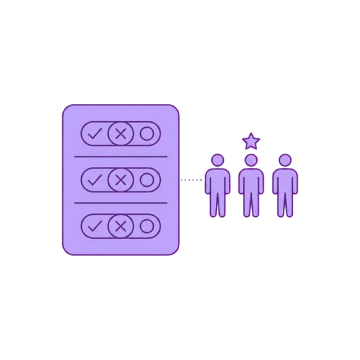
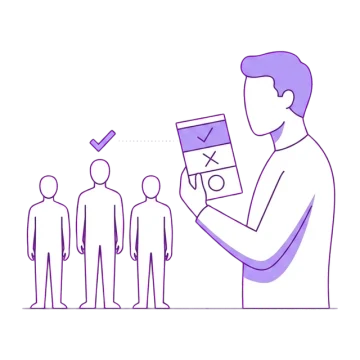
feat: make the Find your DRep intro inviting (#499)
* feat: give the Find your DRep intro a hero, pool figures and three steps

* feat: redraw the DRep matching illustration in the help series style

---------

Changed region(s): [[0.0611, 0.1222, 0.9167, 0.8861], [0.9167, 0.4583, 0.9472, 0.7028], [0.8861, 0.3972, 0.9167, 0.4583]]

diff --git a/src/components/MatchQuiz.tsx b/src/components/MatchQuiz.tsx
@@ -18,6 +18,7 @@ import {
   rankDreps,
   setFingerprint,
   type MatchDrep,
+  type MatchPoolStats,
   type RankedDrep,
   type UserAnswer,
 } from '@/lib/match/logic.js';
@@ -36,6 +37,7 @@ interface Props {
   network: CardanoNetwork;
   questions: MatchQuestion[];
   dreps: MatchDrep[];
+  poolStats: MatchPoolStats;
 }
 
 type Phase = 'intro' | 'quiz' | 'results';
@@ -71,7 +73,7 @@ function firstSkippedIndex(answers: readonly UserAnswer[]): number {
   return idx === -1 ? 0 : idx;
 }
 
-export default function MatchQuiz({ network, questions, dreps }: Props) {
+export default function MatchQuiz({ network, questions, dreps, poolStats }: Props) {
   const [phase, setPhase] = useState<Phase>('intro');
   const [step, setStep] = useState(0);
   const [answers, setAnswers] = useState<UserAnswer[]>(() => questions.map(() => 's'));
@@ -174,9 +176,14 @@ export default function MatchQuiz({ network, questions, dreps }: Props) {
   }
 
   return (
-    <div className="match-quiz">
+    <div className={phase === 'intro' ? 'match-quiz match-quiz--intro' : 'match-quiz'}>
       {phase === 'intro' && (
-        <IntroScreen staleLink={staleLink} questionCount={questions.length} onStart={startQuiz} />
+        <IntroScreen
+          staleLink={staleLink}
+          questionCount={questions.length}
+          poolStats={poolStats}
+          onStart={startQuiz}
+        />
       )}
       {phase === 'quiz' && (
         <QuizScreen
@@ -215,14 +222,35 @@ export default function MatchQuiz({ network, questions, dreps }: Props) {
 function IntroScreen({
   staleLink,
   questionCount,
+  poolStats,
   onStart,
 }: {
   staleLink: boolean;
   questionCount: number;
+  poolStats: MatchPoolStats;
   onStart: () => void;
 }) {
+  const facts = [
+    { label: 'Questions', value: questionCount, sub: 'completed governance actions' },
+    { label: 'DReps compared', value: poolStats.drepCount, sub: 'voted on enough of them' },
+    { label: 'On-chain votes', value: poolStats.voteCount, sub: 'cast by those DReps on these actions' },
+  ];
+  const steps = [
+    {
+      title: 'Answer',
+      text: 'Say Yes, No or Abstain on each action, or skip the ones you are unsure about.',
+    },
+    {
+      title: 'Compare',
+      text: 'See the DReps whose past votes line up with yours, with their written rationale where one exists.',
+    },
+    {
+      title: 'Delegate',
+      text: 'Read a matching DRep\'s profile, or delegate to them right from the results with your wallet.',
+    },
+  ];
   return (
-    <section className="match-panel match-intro">
+    <section className="match-intro">
       {staleLink && (
         <div className="callout callout--warning match-notice" role="status">
           <div className="callout__body">
@@ -231,21 +259,55 @@ function IntroScreen({
           </div>
         </div>
       )}
-      <p className="match-intro__lede">
-        You will see {questionCount} real governance actions that Cardano DReps have already
-        voted on. For each one, say how you would have voted: Yes, No or Abstain. At the end,
-        see the DReps whose past votes line up most closely with your answers.
-      </p>
-      <p className="match-intro__privacy">
-        <strong>Your answers never leave your device.</strong> Matching runs entirely in your
-        browser.
-      </p>
-      <p className="match-intro__how">
-        <a href="/help/drep-matching/">How matching works</a>
-      </p>
-      <button type="button" className="btn btn-primary match-intro__start" onClick={onStart}>
-        Start
-      </button>
+      <div className="match-panel match-intro__hero">
+        <div className="match-intro__text">
+          <p className="match-intro__lede">
+            Answer {questionCount} real governance actions that Cardano DReps have already voted
+            on, and see which DReps voted the way you would have.
+          </p>
+          <p className="match-intro__privacy">
+            <strong>Your answers never leave your device.</strong> Matching runs entirely in your
+            browser.
+          </p>
+          <p className="match-intro__how">
+            <a href="/help/drep-matching/">How matching works</a>
+          </p>
+          <button type="button" className="btn btn-primary match-intro__start" onClick={onStart}>
+            Start
+          </button>
+        </div>
+        <img
+          className="match-intro__illu"
+          src="/help/drep-matching.webp"
+          width="360"
+          height="360"
+          alt=""
+        />
+      </div>
+      <dl className="match-facts">
+        {facts.map((f) => (
+          <div key={f.label} className="match-fact">
+            <dt className="match-fact__label">{f.label}</dt>
+            <dd className="match-fact__body">
+              <span className="match-fact__value">{f.value.toLocaleString('en-US')}</span>
+              <span className="match-fact__sub">{f.sub}</span>
+            </dd>
+          </div>
+        ))}
+      </dl>
+      <ol className="match-steps">
+        {steps.map((st, i) => (
+          <li key={st.title} className="match-step">
+            <span className="match-step__num" aria-hidden="true">
+              {i + 1}
+            </span>
+            <span className="match-step__body">
+              <span className="match-step__title">{st.title}</span>
+              <span className="match-step__text">{st.text}</span>
+            </span>
+          </li>
+        ))}
+      </ol>
     </section>
   );
 }

diff --git a/src/lib/match/logic.test.ts b/src/lib/match/logic.test.ts
@@ -4,6 +4,7 @@ import {
   buildMatchDreps,
   decodeShareFragment,
   discriminativeScore,
+  matchPoolStats,
   encodeShareFragment,
   minAnsweredFor,
   minSharedFor,
@@ -198,5 +199,16 @@ describe('share fragment', () => {
     expect(decodeShareFragment('#r=v2.abcd1234.yn')).toBeNull();
     expect(decodeShareFragment('#r=v1.abcd1234.yx')).toBeNull();
     expect(decodeShareFragment('#other=1')).toBeNull();
+  });
+});
+
+describe('matchPoolStats', () => {
+  it('counts the DReps and their cast votes, ignoring unvoted slots', () => {
+    const dreps = [{ votes: 'YN-A' }, { votes: '----' }, { votes: 'YYYY' }];
+    expect(matchPoolStats(dreps)).toEqual({ drepCount: 3, voteCount: 7 });
+  });
+
+  it('is zero for an empty pool', () => {
+    expect(matchPoolStats([])).toEqual({ drepCount: 0, voteCount: 0 });
   });
 });

diff --git a/src/lib/match/logic.ts b/src/lib/match/logic.ts
@@ -205,6 +205,25 @@ const POINTS: Record<string, number> = {
   aN: 0.5,
 };
 
+/** Headline figures of the matching pool for the intro screen. */
+export interface MatchPoolStats {
+  drepCount: number;
+  voteCount: number;
+}
+
+/**
+ * Counts the DReps in the pool and the votes they actually cast on the
+ * question set, so the intro can say what the match is computed from.
+ * Unvoted slots ('-') are not votes.
+ */
+export function matchPoolStats(dreps: readonly Pick<MatchDrep, 'votes'>[]): MatchPoolStats {
+  let voteCount = 0;
+  for (const d of dreps) {
+    for (const v of d.votes) if (v !== '-') voteCount += 1;
+  }
+  return { drepCount: dreps.length, voteCount };
+}
+
 export function rankDreps(
   answers: readonly UserAnswer[],
   dreps: readonly MatchDrep[],

diff --git a/src/lib/og/matchCard.ts b/src/lib/og/matchCard.ts
@@ -19,7 +19,18 @@ export const MATCH_CARD: DiscussionCardModel = {
   meta: 'Find your DRep',
 };
 
-/** Cache-busting token for the card URL, changes whenever the card copy changes. */
+/**
+ * Revision of the drawing the card embeds (public/help/og/drep-matching.png).
+ * Bump it when that file is replaced, the copy alone does not know.
+ */
+const MATCH_CARD_ILLUSTRATION_REV = 2;
+
+/** Cache-busting token for the card URL, changes whenever the card copy or drawing changes. */
 export function matchCardVersion(): string {
-  return ogCardVersion([MATCH_CARD.category, MATCH_CARD.title, MATCH_CARD.subtitle]);
+  return ogCardVersion([
+    MATCH_CARD.category,
+    MATCH_CARD.title,
+    MATCH_CARD.subtitle,
+    MATCH_CARD_ILLUSTRATION_REV,
+  ]);
 }
